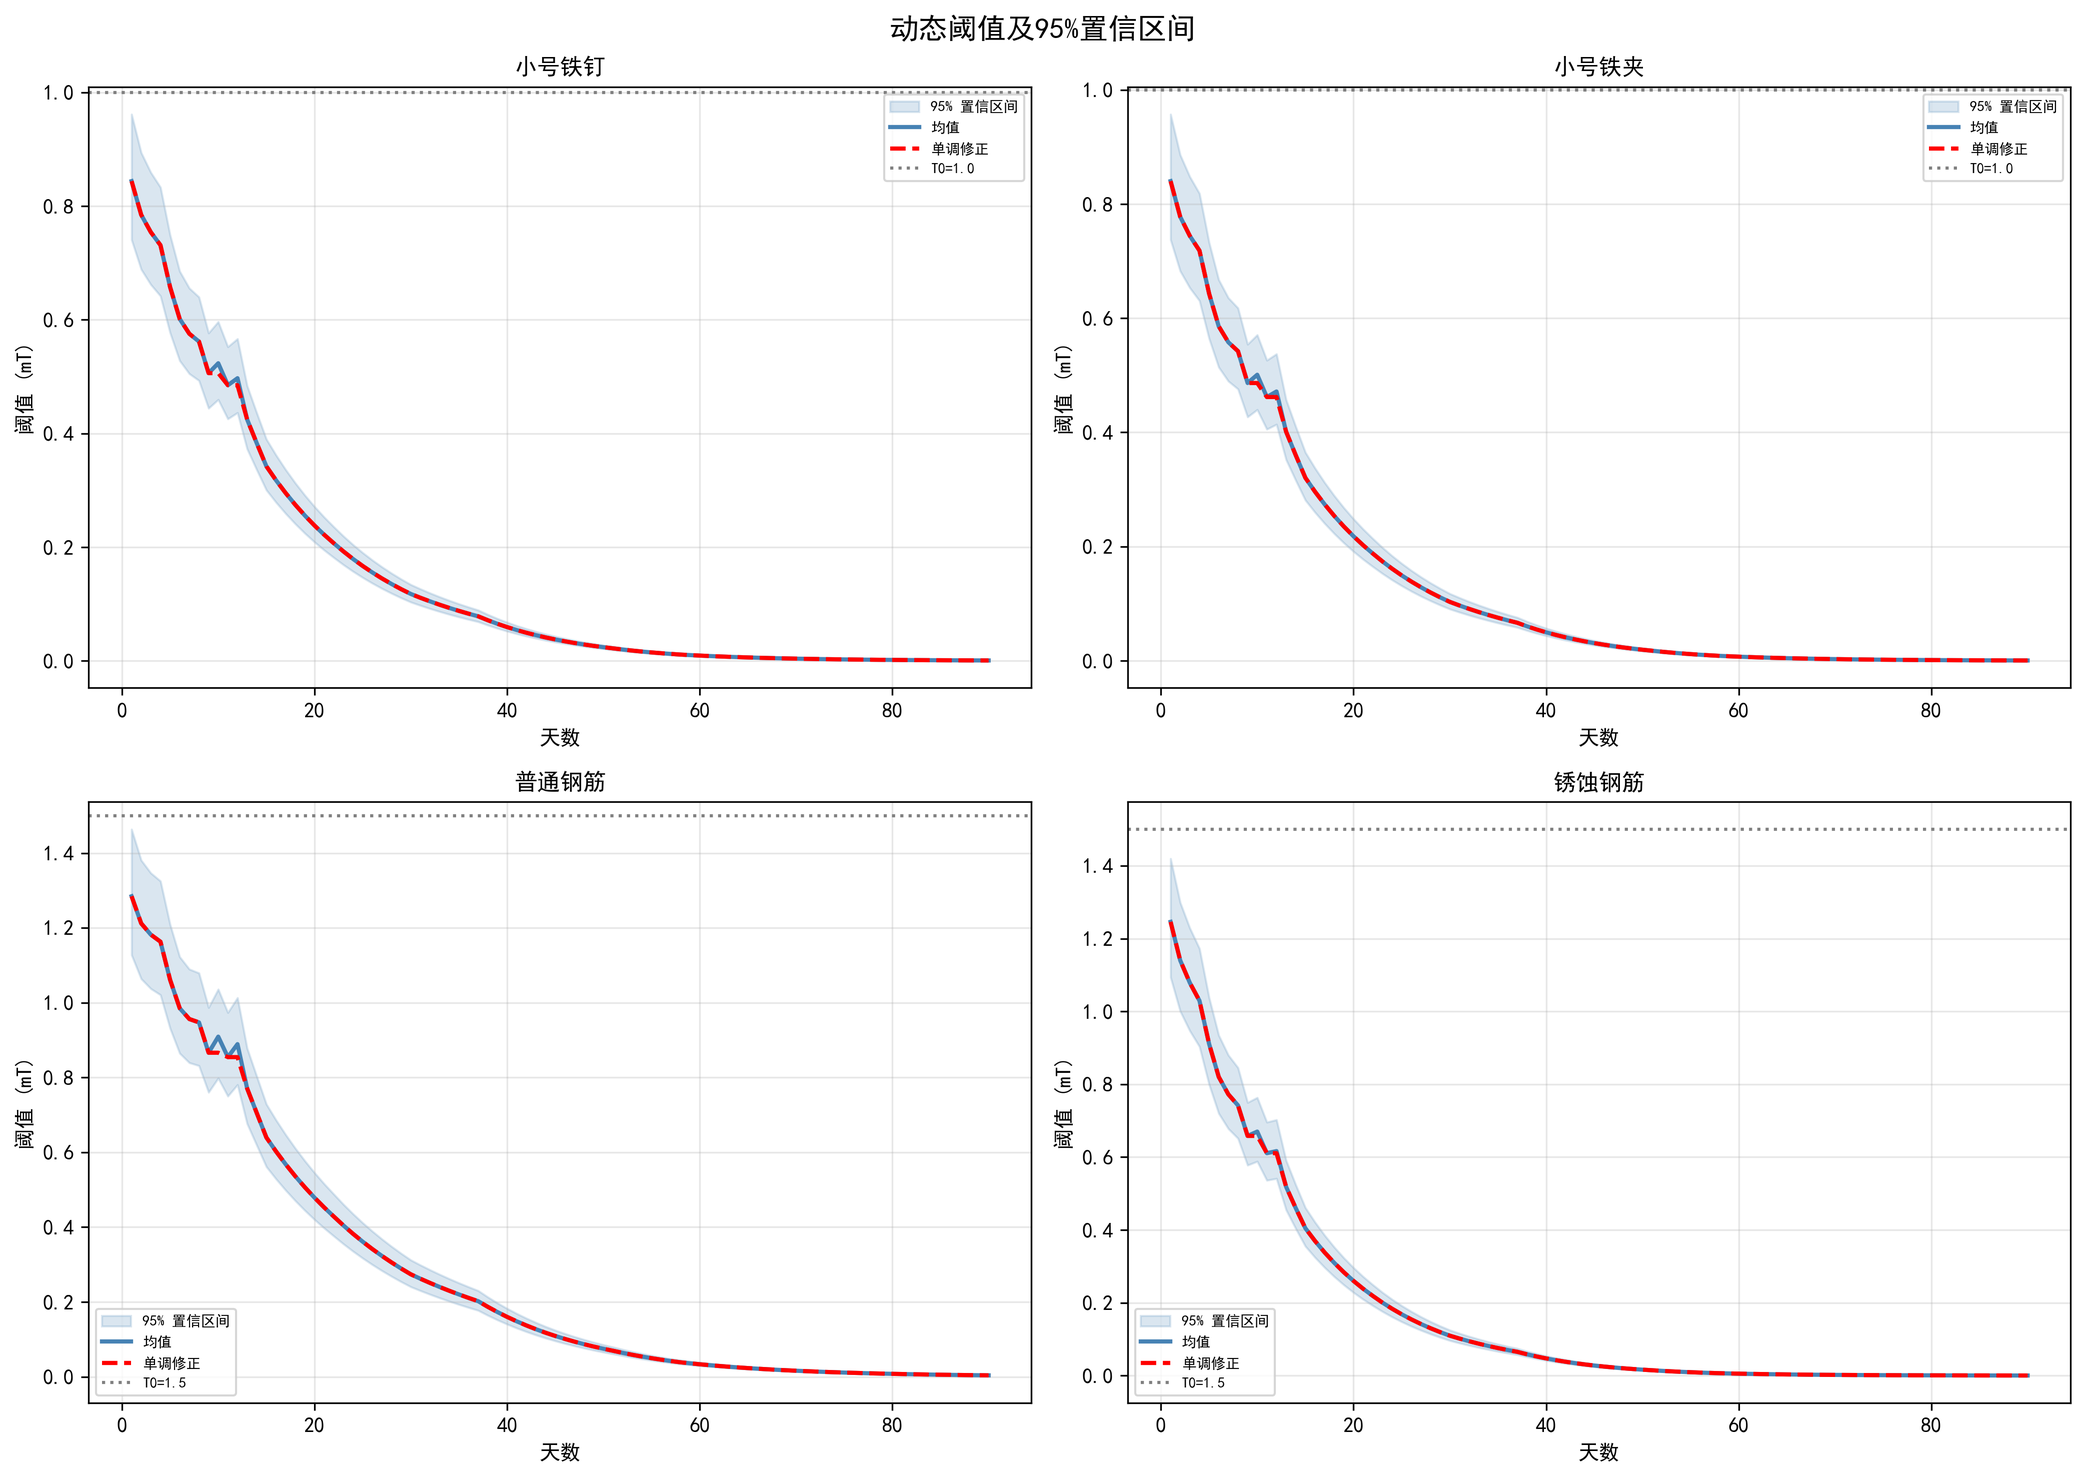
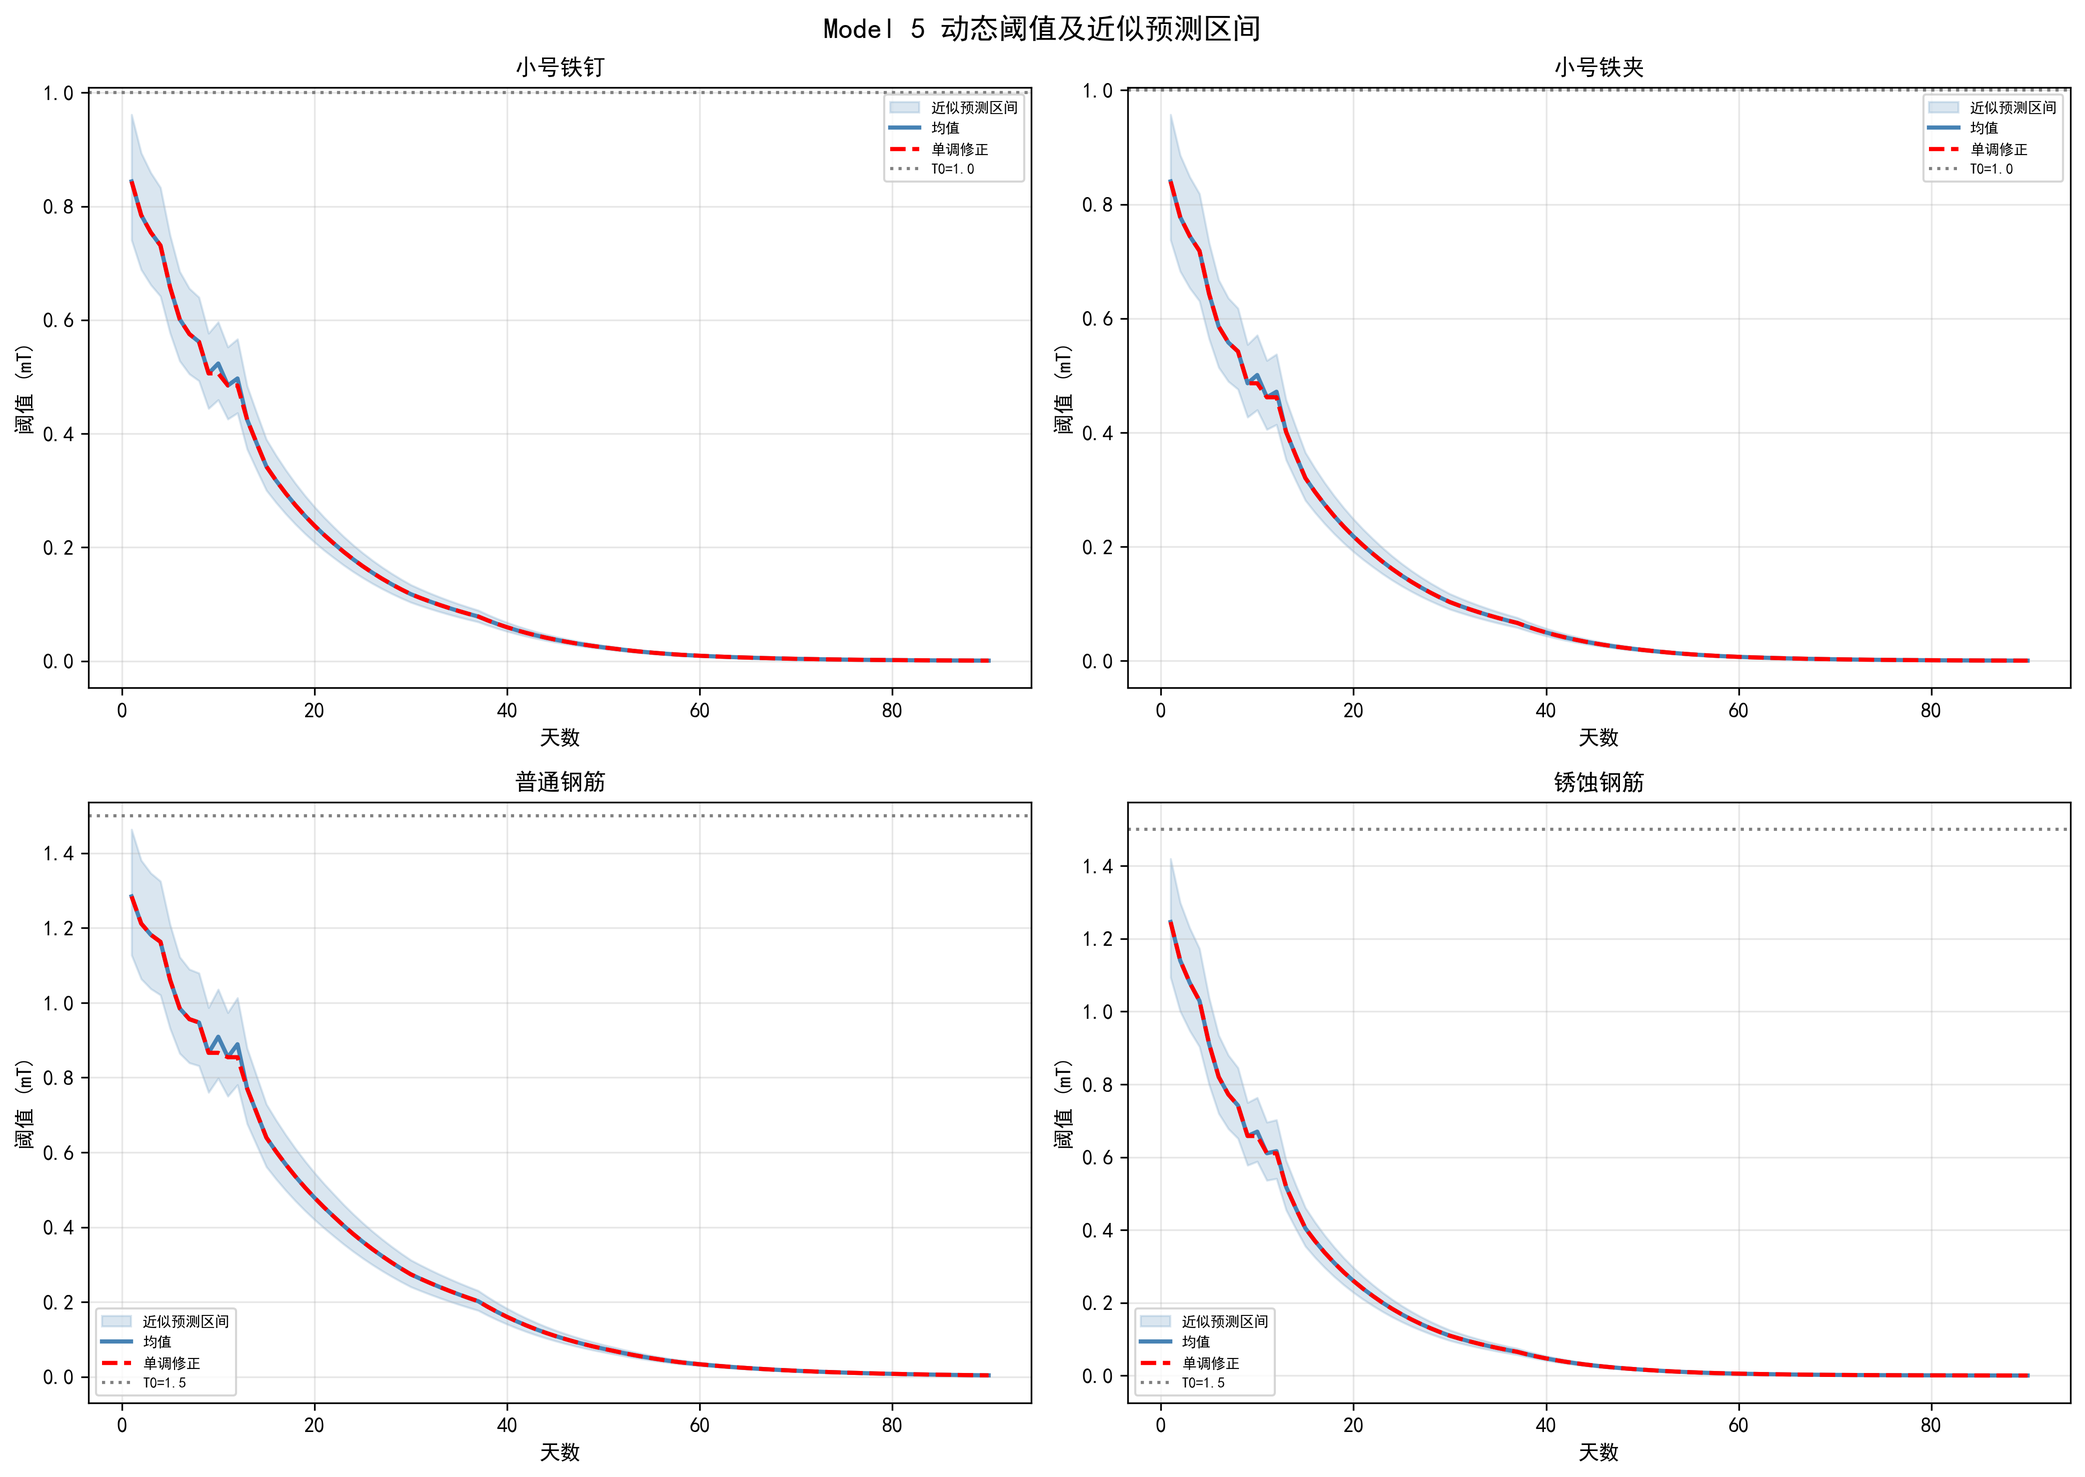
最后一版

diff --git a/main.py b/main.py
@@ -266,9 +266,11 @@ def generate_markdown_summary(builder, predictor, df_engineered,
         # ---- 5.5. 解释模型与预测模型分工 ----
         f.write("## 5.5. 解释模型与预测模型的分工\n\n")
         f.write("### ExplainModel（解释模型）\n")
-        f.write("$$Y = \\alpha_s \\cdot t + \\beta_{\\log} \\ln(1+t) + \\beta_{rust\\_base} \\cdot (Rust_0 \\cdot t) + \\varepsilon$$\n\n")
-        f.write("**用途**：机理分析——回答时间是否主导、不同样品类型衰减斜率是否不同、锈蚀钢筋是否比普通钢筋衰减更快。")
-        f.write("仅包含时间、log_t 和锈蚀基线项，不含环境累计变量，避免共线性导致解释困难。\n\n")
+        f.write("$$Y = \\alpha_s \\cdot t + \\beta_{\\log} \\ln(1+t) + \\varepsilon$$\n\n")
+        f.write("**用途**：机理分析——验证时间延迟是否主导、比较四类样品基础时间衰减斜率、")
+        f.write("通过锈蚀钢筋斜率 > 普通钢筋斜率说明锈蚀状态降低剩磁稳定性。")
+        f.write("仅包含 type:day 时间斜率和 log_t 项，不含 Rust0*t（后者与 type:day 共线），")
+        f.write("也不含环境累计变量，避免解释困难。\n\n")
         f.write("### Model 5（预测模型）\n")
         f.write("$$Y = \\alpha_s \\cdot t + \\beta_{\\log} \\ln(1+t) + \\beta_T C_T + \\beta_H TOW + \\beta_{TH} C_{TH} + \\beta_{rust} \\, rust\\_TOW + \\varepsilon$$\n\n")
         f.write("**用途**：工程应用——第23~29天剩磁预测、1~90天动态阈值、动态阈值置信区间、实际雷击判定流程。\n\n")
@@ -335,10 +337,12 @@ def generate_markdown_summary(builder, predictor, df_engineered,
         # ---- 8.5. Sample CV ----
         f.write("## 8.5. 样品留一交叉验证\n\n")
         f.write("按样品留一交叉验证：每次去掉一个完整样品的所有时间点数据，")
-        f.write("用剩余样品训练 Model 5，预测被去掉样品的所有时间点。")
-        f.write("评估模型对新铁件样品的泛化能力。\n\n")
+        f.write("用剩余样品训练 Model 5，预测被去掉样品的所有时间点。\n\n")
         f.write("Leave-One-Day-Out CV 用于验证未观测时间点预测能力，")
-        f.write("Leave-One-Sample-Out CV 用于验证模型对新样品的泛化能力。\n\n")
+        f.write("Leave-One-Sample-Out CV 用于评估模型对同分布新样品的泛化能力。")
+        f.write("结果表明，在当前实验样品类型和环境范围内，")
+        f.write("Model 5 对未参与训练的样品仍保持较低预测误差，")
+        f.write("说明模型具有较好的样品层面泛化能力。\n\n")
 
         if df_sample_cv_summary is not None and not df_sample_cv_summary.empty:
             f.write(df_sample_cv_summary.to_markdown(index=False) + "\n\n")
@@ -373,6 +377,8 @@ def generate_markdown_summary(builder, predictor, df_engineered,
         f.write("基于 Model 5 残差标准差 $\\sigma_Y$ 构造近似 95% 阈值区间：\n\n")
         f.write("$$Y_{lower} = \\hat{Y} - 1.96\\sigma_Y, \\quad Y_{upper} = \\hat{Y} + 1.96\\sigma_Y$$\n")
         f.write("$$T_{upper} = T_0 e^{-Y_{lower}}, \\quad T_{mean} = T_0 e^{-\\hat{Y}}, \\quad T_{lower} = T_0 e^{-Y_{upper}}$$\n\n")
+        f.write("该区间基于 Model 5 在 Y 空间的残差标准差构造，属于近似预测区间，")
+        f.write("用于实际判定时的不确定性提示，而非严格贝叶斯置信区间。\n\n")
         f.write("动态阈值区间可用于雷击判定置信度分级。\n\n")
         f.write("详见 `dynamic_threshold_with_interval_1_90.xlsx`。\n\n")
 
@@ -430,13 +436,14 @@ def generate_markdown_summary(builder, predictor, df_engineered,
         f.write("单调修正版则更适合实际判定流程。\n\n")
         f.write("8. **Leave-One-Day-Out CV 验证了模型对未观测时间点的预测能力**，")
         f.write("Model 5 的 CV_RMSE_M=0.090 mT，显著优于 Model 4 的 0.187 mT。\n\n")
-        f.write("9. **Leave-One-Sample-Out CV 验证了模型对新样品的泛化能力**，")
-        f.write("说明模型不依赖于特定样品训练集。\n\n")
+        f.write("9. **Leave-One-Sample-Out CV 表明，在同类样品与相同实验环境条件下**，")
+        f.write("Model 5 对未参与训练的样品仍保持较低预测误差，")
+        f.write("说明模型具有较好的样品层面泛化能力。\n\n")
         f.write("10. **动态阈值区间比单点阈值更适合实际鉴定**：")
-        f.write("基于 95% 置信区间的分级规则可提供置信度分级，")
+        f.write("基于残差标准差的近似预测区间可提供置信度分级，")
         f.write("避免单点阈值在高不确定性场景下的误判。\n\n")
         f.write("11. **解释模型用于机理分析，预测模型用于动态阈值和工程应用**。")
-        f.write("解释模型仅含时间、log_t 和锈蚀基线项，便于解释；")
+        f.write("解释模型仅包含样品类型时间衰减斜率和 log_t 项，便于机理比较；")
         f.write("预测模型含环境累计变量，作为轨迹修正项提升预测精度。\n")
         f.write("12. **环境变量因共线性不作强因果解释**，")
         f.write("而作为预测模型中的轨迹修正项。\n\n")

diff --git a/src/visualization.py b/src/visualization.py
@@ -200,7 +200,7 @@ class Visualizer:
         
         ax.set_xlabel('实测剩磁值 (mT)', fontsize=12, fontweight='bold')
         ax.set_ylabel('预测剩磁值 (mT)', fontsize=12, fontweight='bold')
-        ax.set_title('模型预测值与实测值对比', fontsize=14, fontweight='bold')
+        ax.set_title('Model 5 预测值与实测值对比', fontsize=14, fontweight='bold')
         ax.legend(fontsize=11)
         ax.grid(True, alpha=0.3)
         
@@ -223,7 +223,7 @@ class Visualizer:
         axes[0].hist(residuals, bins=30, edgecolor='black', alpha=0.7)
         axes[0].set_xlabel('残差值', fontsize=11, fontweight='bold')
         axes[0].set_ylabel('频数', fontsize=11, fontweight='bold')
-        axes[0].set_title('残差分布直方图', fontsize=12, fontweight='bold')
+        axes[0].set_title('Model 5 残差分布直方图', fontsize=12, fontweight='bold')
         axes[0].grid(True, alpha=0.3, axis='y')
         
         # Q-Q图
@@ -252,7 +252,7 @@ class Visualizer:
         
         ax.set_xlabel('天数 (天)', fontsize=12, fontweight='bold')
         ax.set_ylabel('预测剩磁值 (mT)', fontsize=12, fontweight='bold')
-        ax.set_title('四类样品第23-29天预测剩磁曲线', fontsize=14, fontweight='bold')
+        ax.set_title('Model 5 第23-29天预测剩磁曲线', fontsize=14, fontweight='bold')
         ax.legend(fontsize=11)
         ax.grid(True, alpha=0.3)
         ax.set_xticks(self.df_pred_23_29['day'])
@@ -279,7 +279,7 @@ class Visualizer:
         
         ax.set_xlabel('天数 (天)', fontsize=12, fontweight='bold')
         ax.set_ylabel('动态阈值 (mT)', fontsize=12, fontweight='bold')
-        ax.set_title('四类样品1-90天动态阈值变化曲线', fontsize=14, fontweight='bold')
+        ax.set_title('Model 5 动态阈值 1-90天', fontsize=14, fontweight='bold')
         ax.legend(fontsize=11)
         ax.grid(True, alpha=0.3)
         
@@ -305,7 +305,7 @@ class Visualizer:
         
         ax.set_xlabel('测量天数 (天)', fontsize=12, fontweight='bold')
         ax.set_ylabel('衰减强度 Y(t) = -ln R(t)', fontsize=12, fontweight='bold')
-        ax.set_title('普通钢筋与锈蚀钢筋衰减速率对比', fontsize=14, fontweight='bold')
+        ax.set_title('锈蚀钢筋与普通钢筋衰减速率对比\n(锈蚀钢筋 type:day斜率≈0.095 > 普通钢筋≈0.065)', fontsize=14, fontweight='bold')
         ax.legend(fontsize=11)
         ax.grid(True, alpha=0.3)
         
@@ -389,7 +389,7 @@ class Visualizer:
             ax.legend(fontsize=8)
             ax.grid(True, alpha=0.3)
 
-        fig.suptitle('原始动态阈值 vs 单调修正动态阈值', fontsize=14, fontweight='bold')
+        fig.suptitle('Model 5 原始阈值 vs 单调修正阈值', fontsize=14, fontweight='bold')
         fig.tight_layout()
 
         output_path = self.output_dir / '12_monotonic_threshold_comparison.png'
@@ -459,7 +459,7 @@ class Visualizer:
             data = df_interval[df_interval['样品类型'] == sample_type]
 
             ax.fill_between(data['day'], data['threshold_lower_95'], data['threshold_upper_95'],
-                            alpha=0.2, color='steelblue', label='95% 置信区间')
+                            alpha=0.2, color='steelblue', label='近似预测区间')
             ax.plot(data['day'], data['threshold_mean'], linewidth=2, color='steelblue', label='均值')
 
             if 'threshold_mono_mean' in data.columns:
@@ -475,7 +475,7 @@ class Visualizer:
             ax.legend(fontsize=7)
             ax.grid(True, alpha=0.3)
 
-        fig.suptitle('动态阈值及95%置信区间', fontsize=14, fontweight='bold')
+        fig.suptitle('Model 5 动态阈值及近似预测区间', fontsize=14, fontweight='bold')
         fig.tight_layout()
         output_path = self.output_dir / '14_dynamic_threshold_interval.png'
         plt.savefig(output_path, dpi=300, bbox_inches='tight')

diff --git a/src/modeling.py b/src/modeling.py
@@ -134,21 +134,20 @@ class ModelBuilder:
         """
         ExplainModel（解释模型）
 
-        Y = alpha_s * t + beta_log * ln(1+t) + beta_rust_base * (Rust0 * t) + epsilon
+        Y = alpha_s * t + beta_log * ln(1+t) + epsilon
 
-        用途：机理分析——回答时间是否主导、样品类型衰减斜率差异、锈蚀是否加速衰减。
-        避免过多环境累计变量导致解释困难。
+        用途：机理分析——验证时间延迟是否主导、比较四类样品基础时间衰减斜率、
+        通过锈蚀钢筋斜率 > 普通钢筋斜率说明锈蚀状态降低剩磁稳定性。
+        不含环境累计变量和 Rust0*t（后者与 type:day 共线），避免解释困难。
         """
         print_section_header("构建ExplainModel（解释模型）")
         try:
-            self.df['Rust0'] = self.df['锈蚀等级'].astype(float)
-            self.df['Rust0_t'] = self.df['Rust0'] * self.df['测量天数']
-            formula = 'Y ~ 0 + C(样品类型):测量天数 + log_t + Rust0_t'
+            formula = 'Y ~ 0 + C(样品类型):测量天数 + log_t'
             model = ols(formula, data=self.df).fit()
             self.models['ExplainModel'] = model
             self.results['ExplainModel'] = {
-                'formula': 'Y = α_s * t + β_log ln(1+t) + β_rust_base (Rust0 * t) + ε',
-                'description': '解释模型（时间+log_t+锈蚀基线，不含环境累计变量）',
+                'formula': 'Y = α_s * t + β_log ln(1+t) + ε',
+                'description': '解释模型（仅type:day+log_t，不含环境变量和Rust0*t）',
                 'sample_size': len(self.df)
             }
             logger.info(f"ExplainModel拟合成功: R² = {model.rsquared:.4f}")

diff --git a/outputs/modeling_summary.md b/outputs/modeling_summary.md
@@ -104,9 +104,9 @@ $\alpha_s$ 为第 $s$ 种样品类型的时间衰减斜率。
 
 ### ExplainModel（解释模型）
 
-$$Y = \alpha_s \cdot t + \beta_{\log} \ln(1+t) + \beta_{rust\_base} \cdot (Rust_0 \cdot t) + \varepsilon$$
+$$Y = \alpha_s \cdot t + \beta_{\log} \ln(1+t) + \varepsilon$$
 
-**用途**：机理分析——回答时间是否主导、不同样品类型衰减斜率是否不同、锈蚀钢筋是否比普通钢筋衰减更快。仅包含时间、log_t 和锈蚀基线项，不含环境累计变量，避免共线性导致解释困难。
+**用途**：机理分析——验证时间延迟是否主导、比较四类样品基础时间衰减斜率、通过锈蚀钢筋斜率 > 普通钢筋斜率说明锈蚀状态降低剩磁稳定性。仅包含 type:day 时间斜率和 log_t 项，不含 Rust0\*t（后者与 type:day 共线），也不含环境累计变量，避免解释困难。
 
 ### Model 5（预测模型）
 
@@ -181,9 +181,9 @@ $$Y = \alpha_s \cdot t + \beta_{\log} \ln(1+t) + \beta_T C_T + \beta_H TOW + \be
 
 ## 8.5. 样品留一交叉验证
 
-按样品留一交叉验证：每次去掉一个完整样品的所有时间点数据，用剩余样品训练 Model 5，预测被去掉样品的所有时间点。评估模型对新铁件样品的泛化能力。
+按样品留一交叉验证：每次去掉一个完整样品的所有时间点数据，用剩余样品训练 Model 5，预测被去掉样品的所有时间点。
 
-Leave-One-Day-Out CV 用于验证未观测时间点预测能力，Leave-One-Sample-Out CV 用于验证模型对新样品的泛化能力。
+Leave-One-Day-Out CV 用于验证未观测时间点预测能力，Leave-One-Sample-Out CV 用于评估模型对同分布新样品的泛化能力。结果表明，在当前实验样品类型和环境范围内，Model 5 对未参与训练的样品仍保持较低预测误差，说明模型具有较好的样品层面泛化能力。
 
 | Model   | CV_RMSE_Y |  CV_MAE_Y | CV_RMSE_M |  CV_MAE_M | N_HeldOut_Samples | N_Predictions |
 | :------ | --------: | --------: | --------: | --------: | ----------------: | ------------: |
@@ -227,6 +227,8 @@ $$T_{dyn,mono}(t) = T_0 \times \exp[-Y_{mono}(t)]$$
 
 $$Y_{lower} = \hat{Y} - 1.96\sigma_Y, \quad Y_{upper} = \hat{Y} + 1.96\sigma_Y$$
 $$T_{upper} = T_0 e^{-Y_{lower}}, \quad T_{mean} = T_0 e^{-\hat{Y}}, \quad T_{lower} = T_0 e^{-Y_{upper}}$$
+
+该区间基于 Model 5 在 Y 空间的残差标准差构造，属于近似预测区间，用于实际判定时的不确定性提示，而非严格贝叶斯置信区间。
 
 动态阈值区间可用于雷击判定置信度分级。
 
@@ -281,9 +283,9 @@ $$T_{upper} = T_0 e^{-Y_{lower}}, \quad T_{mean} = T_0 e^{-\hat{Y}}, \quad T_{lo
 
 8. **Leave-One-Day-Out CV 验证了模型对未观测时间点的预测能力**，Model 5 的 CV_RMSE_M=0.090 mT，显著优于 Model 4 的 0.187 mT。
 
-9. **Leave-One-Sample-Out CV 验证了模型对新样品的泛化能力**，说明模型不依赖于特定样品训练集。
+9. **Leave-One-Sample-Out CV 表明，在同类样品与相同实验环境条件下**，Model 5 对未参与训练的样品仍保持较低预测误差，说明模型具有较好的样品层面泛化能力。
 
-10. **动态阈值区间比单点阈值更适合实际鉴定**：基于 95% 置信区间的分级规则可提供置信度分级，避免单点阈值在高不确定性场景下的误判。
+10. **动态阈值区间比单点阈值更适合实际鉴定**：基于残差标准差的近似预测区间可提供置信度分级，避免单点阈值在高不确定性场景下的误判。
 
-11. **解释模型用于机理分析，预测模型用于动态阈值和工程应用**。解释模型仅含时间、log_t 和锈蚀基线项，便于解释；预测模型含环境累计变量，作为轨迹修正项提升预测精度。
+11. **解释模型用于机理分析，预测模型用于动态阈值和工程应用**。解释模型仅包含样品类型时间衰减斜率和 log_t 项，便于机理比较；预测模型含环境累计变量，作为轨迹修正项提升预测精度。
 12. **环境变量因共线性不作强因果解释**，而作为预测模型中的轨迹修正项。
